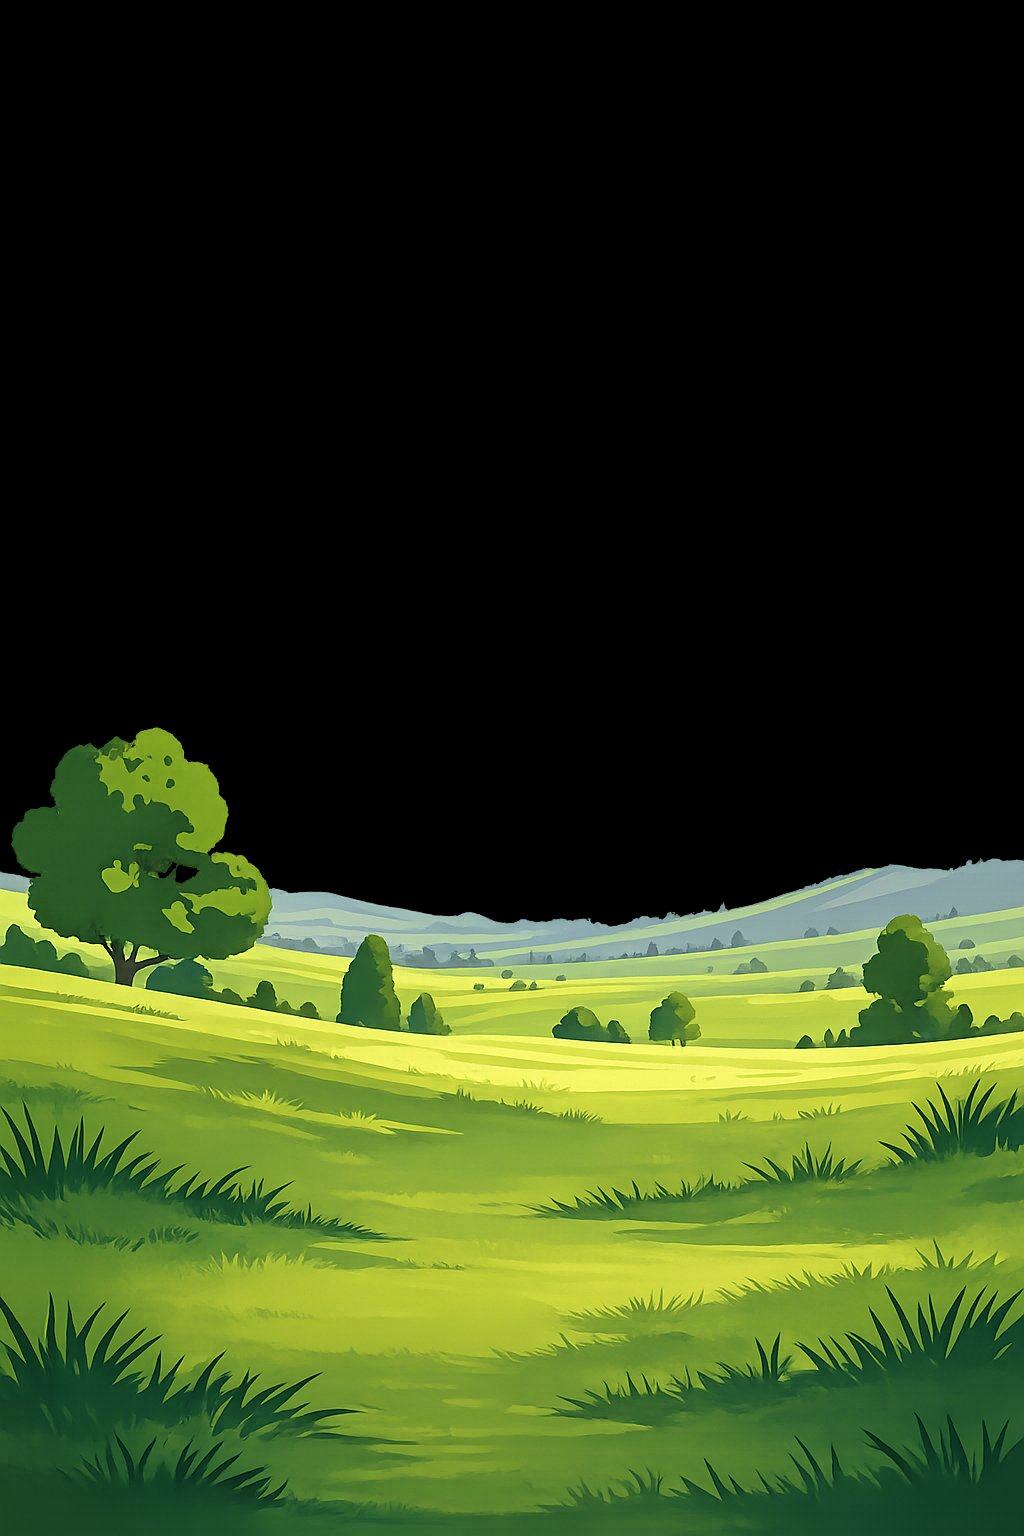
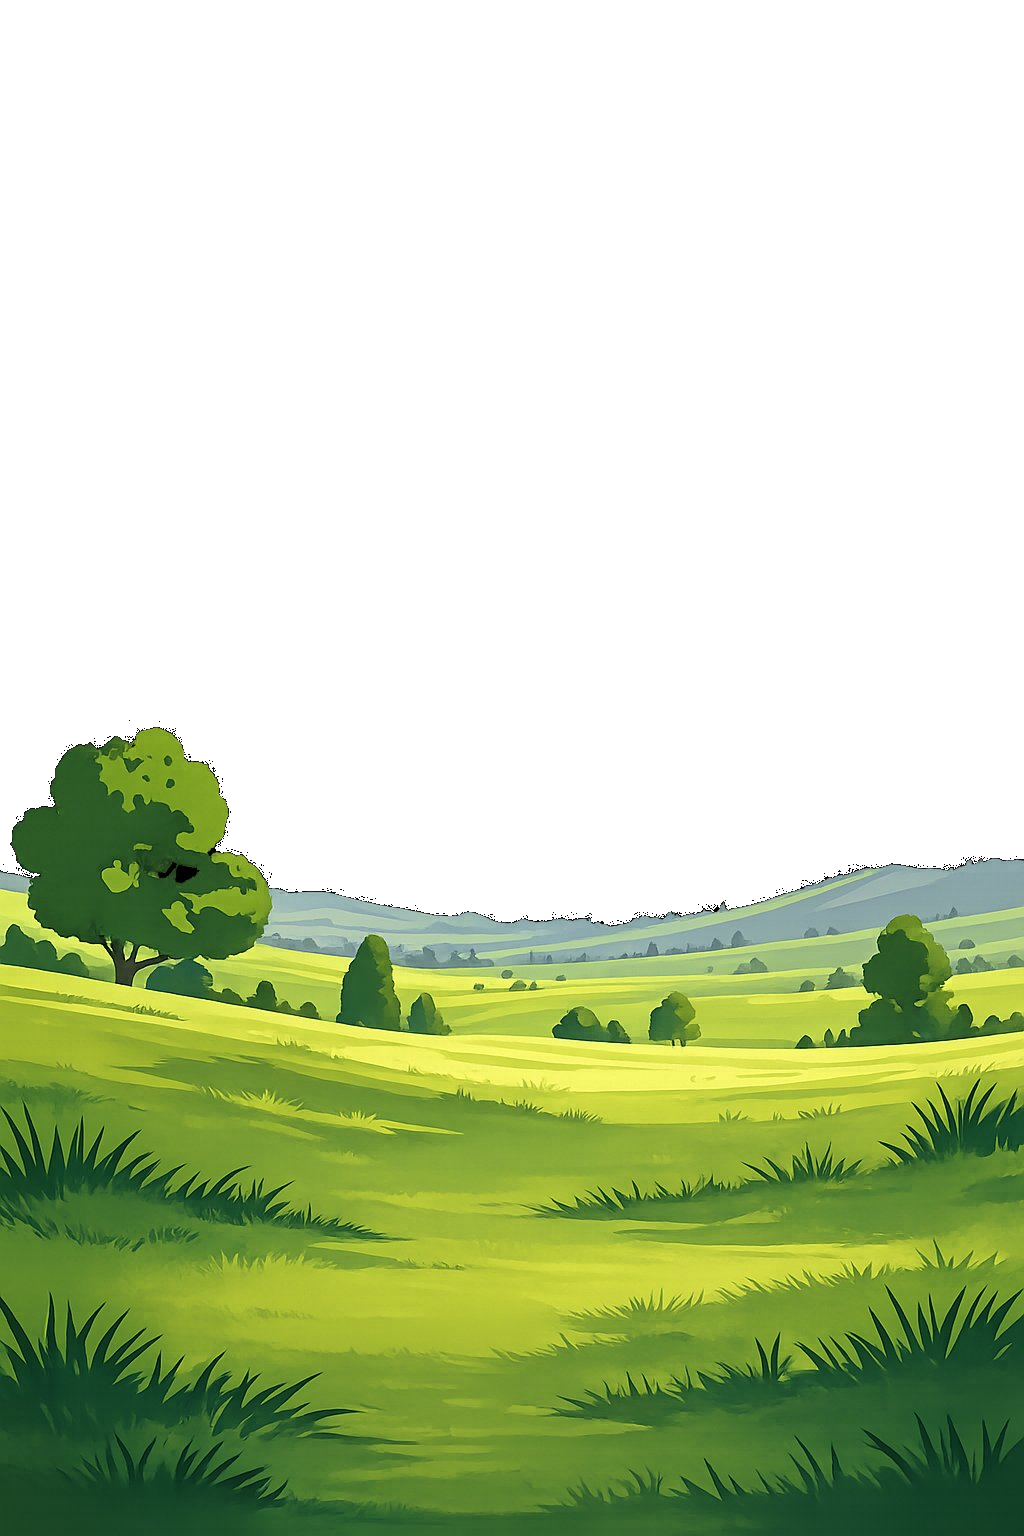
Add files via upload

diff --git a/js/renderer.js b/js/renderer.js
@@ -1,7 +1,7 @@
 var Renderer={
     els:{},walkDir:1,walkTarget:50,currentPetX:50,
     _lastMood:null,_lastSprite:'',_lastStade:-1,_curAnim:'idle',_curFlip:false,
-    _actionLock:false,// true during eat/heal/clean/shower animations
+    _actionLock:false,
 
     ANIMS:{
         idle:'spriteIdle 2.5s ease-in-out infinite',
@@ -16,33 +16,18 @@ var Renderer={
     init:function(){
         var g=function(id){return document.getElementById(id)};
         this.els={pet:g('pet'),petSprite:g('pet-sprite'),petWrapper:g('pet-wrapper'),scene:g('scene'),sceneItems:g('scene-items'),poopContainer:g('poop-container'),emotionBubble:g('emotion-bubble'),emotionIcon:g('emotion-icon'),speechBubble:g('speech-bubble'),speechText:g('speech-text'),moodEmoji:g('mood-emoji')};
-        // Inject keyframes once
         var style=document.createElement('style');
-        style.textContent='\
-@keyframes spriteIdle{0%,100%{transform:translateY(0)}50%{transform:translateY(-4px)}}\
-@keyframes spriteWalk{0%{transform:translateY(0) rotate(-1deg)}50%{transform:translateY(-3px) rotate(1deg)}}\
-@keyframes spriteEat{0%,100%{transform:rotate(0)}25%{transform:rotate(6deg) translateY(3px)}75%{transform:rotate(-3deg)}}\
-@keyframes spriteSleep{0%,100%{transform:scale(1)}50%{transform:scale(.97) translateY(2px)}}\
-@keyframes spriteHappy{0%,100%{transform:translateY(0)}25%{transform:translateY(-10px) rotate(-3deg)}75%{transform:translateY(-10px) rotate(3deg)}}\
-@keyframes spriteSad{0%,100%{transform:translateY(0)}50%{transform:translateY(2px) scale(.97)}}\
-@keyframes spriteSick{0%,100%{transform:translateX(0)}25%{transform:translateX(-2px)}75%{transform:translateX(2px)}}';
+        style.textContent='@keyframes spriteIdle{0%,100%{transform:translateY(0)}50%{transform:translateY(-4px)}}@keyframes spriteWalk{0%{transform:translateY(0) rotate(-1deg)}50%{transform:translateY(-3px) rotate(1deg)}}@keyframes spriteEat{0%,100%{transform:rotate(0)}25%{transform:rotate(6deg) translateY(3px)}75%{transform:rotate(-3deg)}}@keyframes spriteSleep{0%,100%{transform:scale(1)}50%{transform:scale(.97) translateY(2px)}}@keyframes spriteHappy{0%,100%{transform:translateY(0)}25%{transform:translateY(-10px) rotate(-3deg)}75%{transform:translateY(-10px) rotate(3deg)}}@keyframes spriteSad{0%,100%{transform:translateY(0)}50%{transform:translateY(2px) scale(.97)}}@keyframes spriteSick{0%,100%{transform:translateX(0)}25%{transform:translateX(-2px)}75%{transform:translateX(2px)}}';
         document.head.appendChild(style);
         this._applyAnim('idle');
     },
 
-    /* ═══ SINGLE place that changes animation — via style.animationName ═══ */
-    _applyAnim:function(name){
-        if(this._curAnim===name||this._actionLock)return;
-        this._curAnim=name;
-        var s=this.els.petSprite;if(!s)return;
-        s.style.animation=this.ANIMS[name]||this.ANIMS.idle;
-    },
+    _applyAnim:function(name){if(this._curAnim===name||this._actionLock)return;this._curAnim=name;var s=this.els.petSprite;if(s)s.style.animation=this.ANIMS[name]||this.ANIMS.idle;},
+    _forceAnim:function(name){this._curAnim=name;var s=this.els.petSprite;if(!s)return;s.style.animation='none';var self=this;requestAnimationFrame(function(){s.style.animation=self.ANIMS[name]||self.ANIMS.idle;});},
 
-    _applyFlip:function(flipped){
-        if(this._curFlip===flipped)return;
-        this._curFlip=flipped;
-        // We set scaleX on the wrapper to avoid touching the img animation
-        this.els.petWrapper.style.transform='translateX(-50%) scaleX('+(flipped?-1:1)+')';
+    _applyFlip:function(f){
+        if(this._curFlip===f)return;this._curFlip=f;
+        this.els.petWrapper.style.transform='translateX(-50%)'+(f?' scaleX(-1)':'');
     },
 
     update:function(pet){if(!pet)return;this.updateHUD(pet);this.updateStats(pet);this.updatePetSprite(pet);this.updatePoops(pet);this.updateSleepState(pet);this.updateMoodEmoji(pet);this.updateSleepButton(pet);},
@@ -61,22 +46,38 @@ var Renderer={
     updateXPRing:function(pet){var ring=document.getElementById('xp-ring');if(!ring)return;var s=Engine.STAGES[pet.stade];var pct=s.heures?Math.min(1,(Date.now()-pet.derniereEvolution)/3600000/s.heures):1;ring.style.strokeDashoffset=(132*(1-pct)).toFixed(1);},
 
     updateStats:function(pet){
+        // Bonheur = average of all gauges
+        var avg=(pet.faim+(pet.energie||80)+(pet.sante||80)+(pet.hygiene||50)+(pet.amour||30)+(pet.intellect||30))/6;
+        pet.bonheur=Math.max(0,Math.min(100,avg));
         var stats=[['faim',pet.faim],['bonheur',pet.bonheur],['energie',pet.energie],['sante',pet.sante],['hygiene',pet.hygiene||50],['amour',pet.amour||30]];
         for(var i=0;i<stats.length;i++){
             var n=stats[i][0],v=Math.max(0,Math.min(100,stats[i][1]));
-            var bar=document.getElementById('stat-'+n);
-            if(bar){bar.style.width=v+'%';bar.style.background=this._gc(v);}
+            var bar=document.getElementById('stat-'+n);if(bar){bar.style.width=v+'%';bar.style.background=this._gc(v);}
             var txt=document.getElementById('pct-'+n);if(txt)txt.textContent=Math.round(v)+'%';
         }
+        // Low gauge hints
+        this._showHints(pet);
     },
     _gc:function(v){if(v>=70)return'#44cc66';if(v>=50)return'#a0cc44';if(v>=40)return'#ddcc00';if(v>=30)return'#e8a020';if(v>=20)return'#e06820';if(v>=15)return'#d83030';return'#cc1515';},
+
+    _showHints:function(pet){
+        var hint=document.getElementById('hint-bar');if(!hint)return;
+        var msg='';
+        if(pet.faim<20)msg='🌾 Francis a faim ! Clique sur Nourrir';
+        else if(pet.energie<20)msg='😴 Francis est épuisé ! Mets-le au dodo';
+        else if(pet.sante<20)msg='❤️ Francis est malade ! Clique sur Soigner';
+        else if((pet.hygiene||50)<20)msg='🧼 Francis est sale ! Fais-lui prendre une douche';
+        else if((pet.amour||30)<20)msg='💕 Francis se sent seul ! Clique sur Câliner';
+        else if(pet.bonheur<30)msg='😢 Francis est triste ! Joue avec lui';
+        hint.textContent=msg;
+        hint.style.display=msg?'block':'none';
+    },
 
     updatePetSprite:function(pet){
         var sprite=Engine.getSpriteForPet(pet);
         if(this._lastSprite!==sprite){this._lastSprite=sprite;this.els.petSprite.src=sprite;}
         var stage=Engine.STAGES[pet.stade];
         if(this._lastStade!==pet.stade){this._lastStade=pet.stade;this.els.pet.style.width=stage.size+'px';this.els.pet.style.height=stage.size+'px';}
-        // Mood animation (only if not in action lock and not walking)
         if(!this._actionLock&&this._curAnim!=='walking'){
             var mood=Engine.getMood(pet);
             if(mood==='sleeping')this._applyAnim('sleeping');
@@ -87,9 +88,8 @@ var Renderer={
     },
 
     updateSleepState:function(pet){
-        var pw=this.els.petWrapper;var zzz=document.getElementById('sleep-zzz');
-        if(pet.isSleeping){pw.classList.add('in-building');if(zzz)zzz.classList.remove('hidden');}
-        else{pw.classList.remove('in-building');if(zzz)zzz.classList.add('hidden');}
+        this.els.petWrapper.classList.toggle('in-building',pet.isSleeping);
+        var zzz=document.getElementById('sleep-zzz');if(zzz)zzz.classList.toggle('hidden',!pet.isSleeping);
     },
     updateSleepButton:function(pet){
         var btn=document.getElementById('btn-dormir');if(!btn)return;
@@ -119,14 +119,12 @@ var Renderer={
         while(cp>tp){var pp=c.querySelector('.poop');if(pp)pp.remove();cp--;}
     },
 
-    /* ═══ MOVEMENT — only touches wrapper position + flip, NEVER animation ═══ */
     tickMovement:function(pet){
         if(!pet||pet.isSleeping||pet.estMort||this._actionLock)return;
         if(Math.random()<.02)this.walkTarget=15+Math.random()*70;
         var dx=this.walkTarget-this.currentPetX;
         if(Math.abs(dx)>2){
-            this.walkDir=dx>0?1:-1;
-            this.currentPetX+=this.walkDir*.3;
+            this.walkDir=dx>0?1:-1;this.currentPetX+=this.walkDir*.3;
             this.els.petWrapper.style.left=this.currentPetX+'%';
             this._applyAnim('walking');
         }else{
@@ -136,57 +134,64 @@ var Renderer={
         this._applyFlip(this.walkDir<0);
     },
 
-    /* ═══ RESULT DISPLAY — big gauge animation ═══ */
+    // ═══ COUNTDOWN helper ═══
+    _countdown:function(seconds,onEnd){
+        var cd=document.createElement('div');cd.className='countdown-display';
+        cd.textContent=seconds+'s';this.els.scene.appendChild(cd);
+        var remaining=seconds;
+        var iv=setInterval(function(){remaining--;cd.textContent=remaining+'s';if(remaining<=0){clearInterval(iv);cd.remove();if(onEnd)onEnd();}},1000);
+        return{el:cd,interval:iv};
+    },
+
+    // ═══ GAUGE RESULT — big animated bar ═══
     showGaugeResult:function(label,pct){
         var d=document.createElement('div');d.className='gauge-result';
-        d.innerHTML='<div class="gr-label">'+label+'</div><div class="gr-bar"><div class="gr-fill" style="width:0%;background:'+this._gc(pct)+'"></div></div><div class="gr-pct">+20%</div>';
+        d.innerHTML='<div class="gr-label">'+label+'</div><div class="gr-bar"><div class="gr-fill" style="width:0;background:'+this._gc(pct)+'"></div></div><div class="gr-pct">+20%</div>';
         this.els.scene.appendChild(d);
-        requestAnimationFrame(function(){d.querySelector('.gr-fill').style.width=pct+'%';});
+        requestAnimationFrame(function(){var fill=d.querySelector('.gr-fill');if(fill)fill.style.width=pct+'%';});
         setTimeout(function(){d.remove();},3000);
     },
 
-    /* ═══ FOOD ANIMATION — 10s ═══ */
+    // ═══ NOURRIR — 10s, big food pulsing, food flies to beak ═══
     petEatAnimation:function(foodEmoji){
-        var self=this;this._actionLock=true;this._applyAnimForce('eating');
-        // Big ingredient pulsing
-        var big=document.createElement('div');big.className='big-food-anim';big.textContent=foodEmoji||'🍽️';
+        var self=this;this._actionLock=true;this._forceAnim('eating');
+        var emoji=foodEmoji||'🌾';
+        // Big food pulsing center
+        var big=document.createElement('div');big.className='big-food-anim';big.textContent=emoji;
         this.els.scene.appendChild(big);
-        // Small ingredients flying to pet
+        // Food flying to pet
         var feedLoop=setInterval(function(){
-            var m=document.createElement('div');m.className='food-fly';m.textContent=foodEmoji||'🌾';
-            m.style.left='50%';m.style.top='30%';
+            var m=document.createElement('div');m.className='food-fly';m.textContent=emoji;
+            m.style.left='50%';m.style.top='25%';
+            m.style.setProperty('--target-x',(self.currentPetX-50)+'vw');
             self.els.sceneItems.appendChild(m);
-            setTimeout(function(){m.remove();},1200);
-            // Miam bubble
-            var b=document.createElement('div');b.className='float-item';b.textContent='Miam!';
-            b.style.left=(self.currentPetX-5+Math.random()*10)+'%';b.style.top='42%';
-            b.style.fontSize='18px';b.style.fontWeight='800';b.style.color='#f0c040';
-            self.els.sceneItems.appendChild(b);setTimeout(function(){b.remove();},1500);
-        },1200);
-        setTimeout(function(){clearInterval(feedLoop);big.remove();self._actionLock=false;self._applyAnimForce('idle');},10000);
+            setTimeout(function(){m.remove();},1800);
+        },1500);
+        var timer=this._countdown(10,function(){
+            clearInterval(feedLoop);big.remove();self._actionLock=false;self._forceAnim('idle');
+        });
     },
 
-    _applyAnimForce:function(name){
-        this._curAnim=name;
-        var s=this.els.petSprite;if(!s)return;
-        s.style.animation='none';var self=this;
-        requestAnimationFrame(function(){s.style.animation=self.ANIMS[name]||self.ANIMS.idle;});
-    },
-
-    /* ═══ STUDY ANIMATION — 10s with brains ═══ */
+    // ═══ LECTURE — 40s, book at pet height, brains rising ═══
     showStudyAnimation:function(){
         var self=this;this._actionLock=true;
+        var pw=this.els.petWrapper;if(!pw){this._actionLock=false;return;}
+        var pr=pw.getBoundingClientRect(),sr=this.els.scene.getBoundingClientRect();
+        var petBottom=((sr.bottom-pr.bottom)/sr.height*100);
         var book=document.createElement('div');book.className='big-book-anim';book.textContent='📖';
+        book.style.bottom=petBottom+'%';book.style.left=(this.currentPetX-12)+'%';
         this.els.scene.appendChild(book);
         var brainLoop=setInterval(function(){
             var b=document.createElement('div');b.className='brain-float';b.textContent='🧠';
-            b.style.left=(self.currentPetX-8+Math.random()*16)+'%';b.style.bottom='55%';
-            self.els.sceneItems.appendChild(b);setTimeout(function(){b.remove();},2000);
-        },600);
-        setTimeout(function(){clearInterval(brainLoop);book.remove();self._actionLock=false;},10000);
+            b.style.left=(self.currentPetX-8+Math.random()*16)+'%';b.style.bottom=(petBottom+15)+'%';
+            self.els.sceneItems.appendChild(b);setTimeout(function(){b.remove();},2500);
+        },700);
+        var timer=this._countdown(40,function(){
+            clearInterval(brainLoop);book.remove();self._actionLock=false;
+        });
     },
 
-    /* ═══ SHOWER — 10s with showerhead ═══ */
+    // ═══ DOUCHE — 30s with showerhead ═══
     showHeavyShower:function(){
         var self=this;this._actionLock=true;
         var pw=this.els.petWrapper,sc=this.els.scene;if(!pw||!sc){this._actionLock=false;return;}
@@ -196,16 +201,14 @@ var Renderer={
         head.style.left=cx+'%';head.style.top=Math.max(0,ty-3)+'%';
         this.els.sceneItems.appendChild(head);
         var dropLoop=setInterval(function(){
-            for(var i=0;i<3;i++){
-                var d=document.createElement('div');d.className='shower-drop';d.textContent='💧';
-                d.style.left=(cx-10+Math.random()*20)+'%';d.style.top=Math.max(0,ty)+'%';
-                self.els.sceneItems.appendChild(d);setTimeout(function(){d.remove();},900);
-            }
+            for(var i=0;i<3;i++){var d=document.createElement('div');d.className='shower-drop';d.textContent='💧';d.style.left=(cx-10+Math.random()*20)+'%';d.style.top=Math.max(0,ty)+'%';self.els.sceneItems.appendChild(d);setTimeout(function(){d.remove();},900);}
         },200);
-        setTimeout(function(){clearInterval(dropLoop);head.remove();self._actionLock=false;},10000);
+        var timer=this._countdown(30,function(){
+            clearInterval(dropLoop);head.remove();self._actionLock=false;
+        });
     },
 
-    /* ═══ BROOM — 10s ═══ */
+    // ═══ BALAI — 10s ═══
     showBigBroom:function(){
         var self=this;this._actionLock=true;
         var ov=document.createElement('div');ov.className='action-overlay';
@@ -215,41 +218,60 @@ var Renderer={
             var b=document.createElement('div');b.className='big-broom';b.textContent='🧹';b.style.fontSize='80px';b.style.left='50%';b.style.bottom='15%';
             self.els.sceneItems.appendChild(b);setTimeout(function(){b.remove();},1200);
         },1300);
-        setTimeout(function(){clearInterval(loop);ov.remove();self._actionLock=false;},10000);
+        var timer=this._countdown(10,function(){clearInterval(loop);ov.remove();self._actionLock=false;});
     },
 
-    /* ═══ SYRINGE — 10s toward pet ═══ */
+    // ═══ SERINGUE — 20s, rotated 180°, flies toward pet ═══
     showBigSyringe:function(){
         var self=this;this._actionLock=true;
         var ov=document.createElement('div');ov.className='action-overlay';
         ov.innerHTML='<div class="action-text">🚨 SOINS EN COURS 🚨</div>';
         this.els.scene.appendChild(ov);
         var loop=setInterval(function(){
-            var s=document.createElement('div');s.className='big-syringe';s.textContent='💉';s.style.fontSize='80px';s.style.left='50%';s.style.top='30%';
-            self.els.sceneItems.appendChild(s);setTimeout(function(){s.remove();},1500);
-        },1600);
-        setTimeout(function(){clearInterval(loop);ov.remove();self._actionLock=false;},10000);
+            var s=document.createElement('div');s.className='syringe-fly';s.textContent='💉';
+            s.style.setProperty('--pet-x',self.currentPetX+'%');
+            self.els.sceneItems.appendChild(s);setTimeout(function(){s.remove();},2000);
+        },2100);
+        var timer=this._countdown(20,function(){clearInterval(loop);ov.remove();self._actionLock=false;});
     },
 
-    /* ═══ HEN VISIT — 1 min, big hearts ═══ */
-    showHenVisit:function(h,sz){
+    // ═══ CALINER — 1 min, hen follows pet ═══
+    showHenVisit:function(henSprite,petSize){
         var w=document.getElementById('hen-wrapper'),img=document.getElementById('hen-sprite');
-        img.src=h;img.style.width=(sz||120)+'px';img.style.height=(sz||120)+'px';
+        img.src=henSprite;img.style.width=(petSize||120)+'px';img.style.height=(petSize||120)+'px';
         w.classList.remove('hidden');
+        // Hen follows pet position
         var self=this;
-        var loop=setInterval(function(){
+        var followLoop=setInterval(function(){
+            var offset=self._curFlip?15:-15;// behind pet
+            w.style.left=(self.currentPetX+offset)+'%';
+            w.style.bottom='10%';
+            w.style.position='absolute';
+        },100);
+        var heartLoop=setInterval(function(){
             var hrt=document.createElement('div');hrt.className='float-item';
             hrt.textContent=['💕','❤️','💗','💖'][Math.floor(Math.random()*4)];
-            hrt.style.left=(30+Math.random()*40)+'%';hrt.style.top=(25+Math.random()*25)+'%';
+            hrt.style.left=(self.currentPetX-10+Math.random()*20)+'%';hrt.style.top=(25+Math.random()*20)+'%';
             hrt.style.fontSize='48px';
             self.els.sceneItems.appendChild(hrt);setTimeout(function(){hrt.remove();},1500);
         },800);
-        setTimeout(function(){clearInterval(loop);w.classList.add('hidden');},60000);
+        setTimeout(function(){clearInterval(heartLoop);clearInterval(followLoop);w.classList.add('hidden');},60000);
     },
 
-    petHappyAnimation:function(){this._applyAnimForce('happy');var s=this;setTimeout(function(){s._applyAnimForce('idle');},1200);},
+    petHappyAnimation:function(){this._forceAnim('happy');var s=this;setTimeout(function(){s._forceAnim('idle');},1200);},
     showEmotion:function(e,d){this.els.emotionIcon.textContent=e;this.els.emotionBubble.classList.remove('hidden');var s=this;setTimeout(function(){s.els.emotionBubble.classList.add('hidden');},d||1500);},
-    showSpeech:function(t){this.els.speechText.textContent=t;this.els.speechBubble.classList.remove('hidden');var s=this;setTimeout(function(){s.els.speechBubble.classList.add('hidden');},3000);},
+
+    // Speech bubble — fix text direction
+    showSpeech:function(t){
+        var bubble=this.els.speechBubble,txt=this.els.speechText;
+        txt.textContent=t;
+        txt.style.direction='ltr';
+        txt.style.unicodeBidi='plaintext';
+        bubble.style.direction='ltr';
+        bubble.classList.remove('hidden');
+        var s=this;setTimeout(function(){bubble.classList.add('hidden');},3000);
+    },
+
     showSleepZ:function(){var z=document.createElement('div');z.className='zzz';z.textContent='Z';z.style.left=(this.currentPetX+5)+'%';z.style.top='35%';this.els.sceneItems.appendChild(z);setTimeout(function(){z.remove();},2000);},
     showHeartAt:function(x,y){var h=document.createElement('div');h.className='touch-heart';h.textContent='💕';h.style.left=x+'px';h.style.top=y+'px';h.style.fontSize='48px';document.body.appendChild(h);setTimeout(function(){h.remove();},1000);},
     showCoinAt:function(x,y){var c=document.createElement('div');c.className='coin-float';c.textContent='+1 🪙';c.style.left=x+'px';c.style.top=y+'px';document.body.appendChild(c);setTimeout(function(){c.remove();},1200);},

diff --git a/css/style.css b/css/style.css
@@ -212,3 +212,47 @@ html,body{width:100%;height:100%;overflow:hidden;font-family:-apple-system,syste
 @keyframes headBob{0%,100%{transform:rotate(-5deg)}50%{transform:rotate(5deg)}}
 .action-overlay{position:absolute;inset:0;z-index:15;display:flex;align-items:center;justify-content:center;background:rgba(0,0,0,.2);pointer-events:none}
 .action-text{background:rgba(10,20,40,.85);color:#f0f0f5;padding:10px 24px;border-radius:50px;font-size:15px;font-weight:700;animation:pulse2 1s infinite}
+
+/* ═══ HINT BAR ═══ */
+.hint-bar{padding:4px 12px;background:rgba(200,50,50,.15);color:#ff8866;font-size:11px;font-weight:700;text-align:center;border-top:1px solid rgba(200,50,50,.2);flex-shrink:0}
+
+/* ═══ COUNTDOWN DISPLAY ═══ */
+.countdown-display{position:absolute;top:8px;right:8px;z-index:16;background:rgba(10,20,40,.85);color:#f0c040;font-size:28px;font-weight:900;padding:6px 14px;border-radius:16px;border:2px solid rgba(240,192,64,.3);font-family:'Courier New',monospace;pointer-events:none}
+
+/* ═══ FOOD ANIMATION ═══ */
+.big-food-anim{position:absolute;top:20%;left:50%;transform:translateX(-50%);font-size:72px;z-index:8;pointer-events:none;animation:foodPulse 1s ease-in-out infinite}
+@keyframes foodPulse{0%,100%{transform:translateX(-50%) scale(1)}50%{transform:translateX(-50%) scale(1.2)}}
+.food-fly{position:absolute;font-size:32px;z-index:8;pointer-events:none;animation:foodToBeaak 1.8s ease-in forwards}
+@keyframes foodToBeaak{0%{opacity:1;transform:translate(0,0) scale(1)}70%{opacity:1;transform:translate(var(--target-x,0),100px) scale(.8)}100%{opacity:0;transform:translate(var(--target-x,0),130px) scale(.3)}}
+
+/* ═══ BOOK ANIMATION ═══ */
+.big-book-anim{position:absolute;font-size:64px;z-index:8;pointer-events:none;animation:bookBob 2s ease-in-out infinite}
+@keyframes bookBob{0%,100%{transform:rotate(-3deg)}50%{transform:rotate(3deg)}}
+.brain-float{position:absolute;font-size:22px;z-index:8;pointer-events:none;animation:brainUp 2.5s ease-out forwards}
+@keyframes brainUp{0%{opacity:1;transform:translateY(0)}100%{opacity:0;transform:translateY(-140px)}}
+
+/* ═══ SYRINGE — rotated 180°, flies toward pet ═══ */
+.syringe-fly{position:absolute;font-size:80px;z-index:8;pointer-events:none;left:80%;top:5%;transform:rotate(180deg);animation:syringeToPet 2s ease-in forwards}
+@keyframes syringeToPet{0%{left:80%;top:5%;opacity:1;transform:rotate(180deg) scale(1)}80%{left:var(--pet-x,50%);top:50%;opacity:1;transform:rotate(180deg) scale(.8)}100%{left:var(--pet-x,50%);top:55%;opacity:0;transform:rotate(180deg) scale(.5)}}
+
+/* ═══ SHOWER HEAD ═══ */
+.shower-head{position:absolute;font-size:42px;z-index:8;pointer-events:none;animation:headBob 1s ease-in-out infinite}
+@keyframes headBob{0%,100%{transform:rotate(-5deg)}50%{transform:rotate(5deg)}}
+
+/* ═══ GAUGE RESULT ═══ */
+.gauge-result{position:absolute;top:38%;left:50%;transform:translateX(-50%);z-index:16;text-align:center;animation:grPop .5s ease;pointer-events:none;width:70%}
+.gr-label{font-size:16px;font-weight:800;color:#fff;margin-bottom:6px;text-shadow:0 2px 8px rgba(0,0,0,.5)}
+.gr-bar{height:20px;background:rgba(255,255,255,.12);border-radius:10px;overflow:hidden;border:2px solid rgba(255,255,255,.2)}
+.gr-fill{height:100%;border-radius:8px;transition:width 1.5s ease}
+.gr-pct{font-size:32px;font-weight:900;color:#f0c040;margin-top:4px;text-shadow:0 2px 12px rgba(240,192,64,.5)}
+@keyframes grPop{0%{transform:translateX(-50%) scale(0)}60%{transform:translateX(-50%) scale(1.1)}100%{transform:translateX(-50%) scale(1)}}
+
+/* ═══ ACTION OVERLAY ═══ */
+.action-overlay{position:absolute;inset:0;z-index:15;display:flex;align-items:center;justify-content:center;background:rgba(0,0,0,.2);pointer-events:none}
+.action-text{background:rgba(10,20,40,.85);color:#f0f0f5;padding:10px 24px;border-radius:50px;font-size:15px;font-weight:700;animation:pulse2 1s infinite}
+
+/* ═══ SPEECH BUBBLE — always LTR ═══ */
+.speech-bubble,.speech-bubble *{direction:ltr!important;unicode-bidi:plaintext!important;text-align:center!important}
+
+/* ═══ HEN WRAPPER — absolute positioning for following ═══ */
+.hen-wrapper{position:absolute;bottom:10%;z-index:5;transition:left .5s ease}

diff --git a/index.html b/index.html
@@ -99,6 +99,7 @@
             </div>
         </div>
 
+        <div class="hint-bar" id="hint-bar" style="display:none"></div>
         <div class="action-row">
             <button class="act-btn act-green" id="btn-nourrir"><span class="act-icon">🍽️</span><span class="act-label">Nourrir</span></button>
             <button class="act-btn act-blue" id="btn-jouer"><span class="act-icon">🎮</span><span class="act-label">Jouer</span></button>